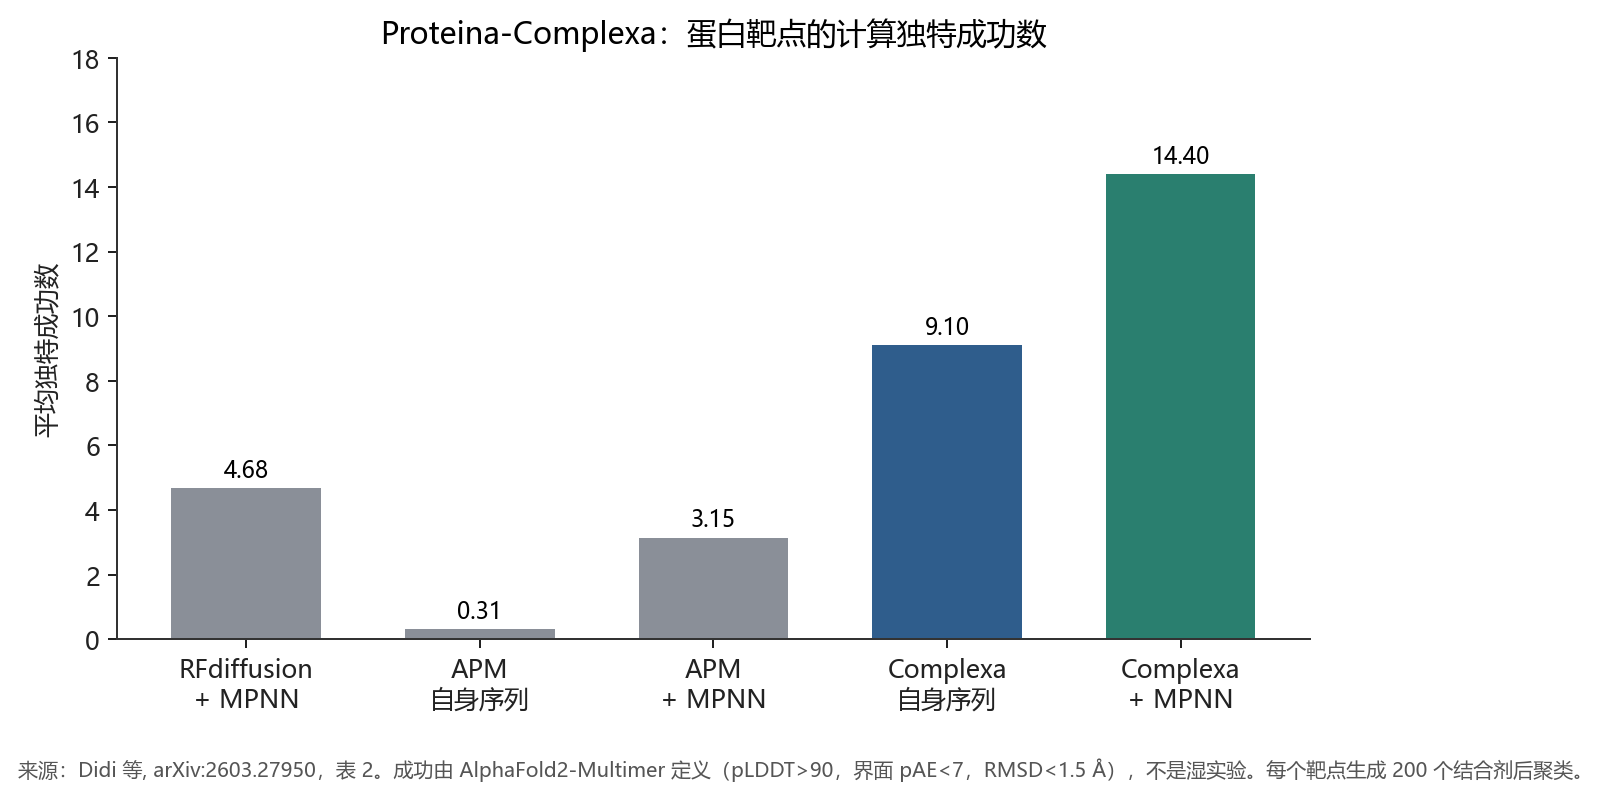
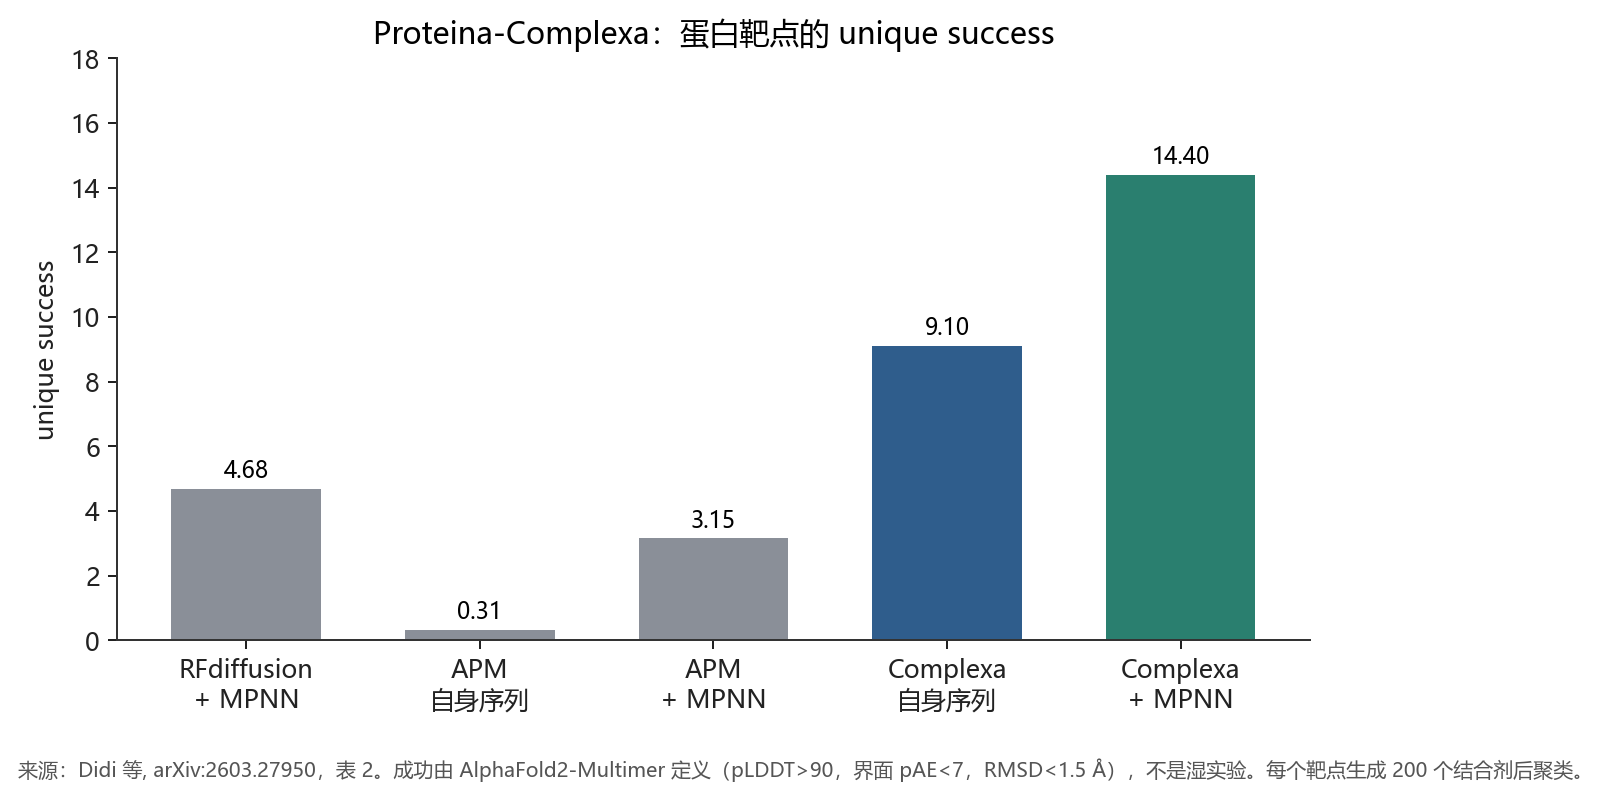
修改了语言

diff --git a/README.md b/README.md
@@ -1,50 +1,50 @@
 # 如何说明一个模型是有效的
-## 和实验测量的相关
+## 与实验测量的相关
 
-输入是序列，真值是已经测到的信号，对照是上一代模型。AlphaGenome 在没见过的基因组区间上，24 项轨道预测里 22 项超过当时最强外部模型，26 项变异效应评估里 25 项达到或超过最强外部模型。下图只保留能与 Borzoi 直接比较的三项。
+输入是序列，真值是已经测到的信号，对照是上一代模型。AlphaGenome 在留出的基因组区间上，24 项轨道预测里 22 项超过当时最强外部模型，26 项变异效应评估里 25 项达到或超过最强外部模型。下图只保留能与 Borzoi 直接比较的三项。
 
-![AlphaGenome 与 Borzoi 的三项变异效应指标](figures/alphagenome.png)
+![AlphaGenome 与 Borzoi：三项变异效应指标](figures/alphagenome.png)
 
-高置信 eQTL 的相关系数是 0.73，Borzoi 是 0.61；可变多聚腺苷酸化是 0.894 对 0.790。因果 eQTL 的 auROC 是 0.75 对 0.71，其中 0.75 已经是多模态分数再经随机森林的结果，模型自己只有 0.68。全体 17,675 个精细定位 eQTL 的有符号 Spearman 相关是 0.50，只看效应绝对值则降到 0.10。有效性集中在强信号子集。
+高置信 eQTL 的相关系数是 0.73，Borzoi 是 0.61；APA 是 0.894 对 0.790。因果 eQTL 的 auROC 是 0.75 对 0.71，其中 0.75 已经是多模态分数再经随机森林的结果，模型自己只有 0.68。全体 17,675 个精细定位 eQTL 的有符号 Spearman 相关是 0.50，只看绝对值则降到 0.10。有效性集中在强信号子集。
 
 Avsec, Ž. et al. *Nature* (2026). https://doi.org/10.1038/s41586-025-10014-0
 
 ## 通过率
 
-事先定一条及格线，再数有多少样本越过它。ESMFold2 的及格线是 DockQ ≥ 0.23。抗体–抗原来自 FoldBench；蛋白–蛋白的单序列 70% 来自 Runs N' Poses，带多序列比对的 76% 与 AlphaFold 3 的 73% 为论文直接对照。
+事先定一条阈值，再数有多少样本越过它。ESMFold2 的阈值是 DockQ ≥ 0.23。抗体–抗原来自 FoldBench；蛋白–蛋白的单序列 70% 来自 Runs N' Poses，带 MSA 的 76% 与 AlphaFold 3 的 73% 为论文直接对照。
 
 ![ESMFold2 与 AlphaFold 3 的复合物通过率](figures/esmfold2.png)
 
-仅用序列时，抗体–抗原通过率 50%，高于带多序列比对的 AlphaFold 3（47%）。加上多序列比对后，抗体–抗原为 53%，蛋白–蛋白为 76%，两类都高于 AlphaFold 3。误差约 ±1 到 ±2 个百分点。单序列蛋白–配体通过率为 66%，论文未给同设定的 AlphaFold 3 对照，故未画入。这证明的是结构坐标，结合自由能和细胞功能要另测。
+仅用序列时，抗体–抗原的通过率为 50%，高于带 MSA 的 AlphaFold 3（47%）。加上 MSA 后，抗体–抗原为 53%，蛋白–蛋白为 76%，两类都高于 AlphaFold 3。误差约 ±1 到 ±2 个百分点。单序列蛋白–配体的通过率为 66%，论文未给相同设定下的 AlphaFold 3 对照，故未画入。这证明的是结构坐标，结合自由能和细胞功能要另测。
 
 Candido, S. et al. *bioRxiv* (2026). https://doi.org/10.64898/2026.06.03.729735
 
 ## 湿实验读数
 
-做出分子，再测结合或活性。BoltzGen 共 8 组实验、26 个靶点，读出为表面等离子共振或生物层干涉的亲和力，部分还有细胞或抑菌功能。下图按靶点计成功率。
+做出分子，再测结合或活性。BoltzGen 共 8 组实验、26 个靶点，读出为 SPR 或 BLI 测到的亲和力，部分还有细胞实验或抑菌实验。下图按靶点计成功率。
 
 ![BoltzGen 按靶点计的湿实验成功率](figures/boltzgen.png)
 
-9 个新靶点在整个蛋白质数据银行中没有序列一致度高于 30% 的结合态蛋白，每个靶点最多测 15 个设计：纳米抗体和普通蛋白结合剂都是 9 个里 6 个达到纳摩尔。3 条生物活性肽各测 6 个设计，2 条达到纳摩尔。灰色柱是训练集里已经有已知复合物的靶点，5 个靶点里 4 个得到结合剂；作者写明，这里的成功可能只是重组见过的界面，证据弱于新靶点。每个靶点的实验样本量小，9 个新靶点里仍有 3 个没有纳摩尔结合剂。
+9 个新靶点在整个 PDB 中没有序列一致度高于 30% 的结合态蛋白，每个靶点最多测 15 个设计：纳米抗体和蛋白结合剂都是 9 个里 6 个达到 nM。3 条生物活性肽各测 6 个设计，2 条达到 nM。灰色柱是训练集里已经有已知复合物的靶点，5 个靶点里 4 个得到结合剂。作者写明，这里的成功可能只是重组见过的界面，证据弱于新靶点。每个靶点的样本量小，9 个新靶点里仍有 3 个没有 nM 结合剂。
 
 Stark, H. et al. *bioRxiv* (2025). https://doi.org/10.1101/2025.11.20.689494
 
 RFdiffusion3 把计算分数和湿实验放在同一张图里。右图才是实验：DNA 结合测试 5 个设计，1 个结合，EC50 = 5.89 ± 2.15 μM；半胱氨酸水解酶测试 190 个，35 个多次周转，最高 *k*<sub>cat</sub>/*K*<sub>m</sub> = 3557。催化所用的 Cys-His-Asp 几何来自天然酶 Ulp1，由人指定。
 
-![RFdiffusion3 的计算成功簇与湿实验成功数](figures/rfdiffusion3.png)
+![RFdiffusion3 的 unique success 与湿实验成功数](figures/rfdiffusion3.png)
 
 Butcher, J. et al. *bioRxiv* (2025). https://doi.org/10.1101/2025.09.18.676967
 
 ## 另一个折叠模型的置信度
 
-上图左栏的及格线来自 AlphaFold 3：链间最小 pAE ≤ 1.5，结合蛋白 pTM ≥ 0.8，RMSD < 2.5 Å。五个靶点各 400 个骨架，按 TM-score 0.6 聚类后，平均独特成功簇 8.2，RFdiffusion 为 1.4。不聚类时，五个靶点里四个超过 RFdiffusion。原子基序酶基准 41 例中 37 例超过 RFdiffusion2。这些数字说明生成结构更多样，且更符合 AlphaFold 3 的置信度。计算通过率明显高于右图的湿实验成功率。
+上图左栏的阈值来自 AlphaFold 3：链间最小 pAE ≤ 1.5，结合剂 pTM ≥ 0.8，RMSD < 2.5 Å。五个靶点各 400 个骨架，按 TM-score 0.6 聚类后，平均 unique success 为 8.2，RFdiffusion 为 1.4。不做聚类时，五个靶点里四个超过 RFdiffusion。AME 41 例中 37 例超过 RFdiffusion2。这些数字说明生成的结构更多样，也更符合 AlphaFold 3 的置信度。计算通过率明显高于右图的湿实验成功率。
 
-Proteina-Complexa 的成功标准来自 AlphaFold 2-Multimer：pLDDT > 90，界面 pAE < 7，结合剂 RMSD < 1.5 Å。每个方法、每个靶点生成 200 个长度 40–250 的结合剂，成功者再聚类。
+Proteina-Complexa 的成功标准来自 AlphaFold 2-Multimer：pLDDT > 90，界面 pAE < 7，结合剂 RMSD < 1.5 Å。每个方法、每个靶点生成 200 个长度 40–250 的结合剂，成功者再做聚类。
 
-![Proteina-Complexa 的平均独特成功数](figures/proteina_complexa.png)
+![Proteina-Complexa 的平均 unique success](figures/proteina_complexa.png)
 
-Complexa 自身序列的独特成功数 9.10，高于需要 ProteinMPNN 重设计的 RFdiffusion（4.68）和 APM（3.15）；再经 ProteinMPNN 为 14.4。小分子四个靶点（SAM、OQO、FAD、IAI）的独特成功数，RFdiffusion-AllAtom 为 2、3、5、8，Complexa 为 10、6、17、19。酶活性位点基准 41 项里 38 项超过 RFdiffusion2。训练用的 Teddymer 来自 AlphaFold 预测结构，评分又用 AlphaFold 2-Multimer，上升的是模型家族内部的一致性。论文没有给出亲和力或细胞实验。
+Complexa 自身序列的 unique success 为 9.10，高于需要 ProteinMPNN 重设计的 RFdiffusion（4.68）和 APM（3.15）；再经 ProteinMPNN 为 14.4。四个小分子靶点（SAM、OQO、FAD、IAI）的 unique success，RFdiffusion-AllAtom 为 2、3、5、8，Complexa 为 10、6、17、19。酶活性位点基准 41 项里 38 项超过 RFdiffusion2。训练用的 Teddymer 来自 AlphaFold 预测结构，评分又用 AlphaFold 2-Multimer，上升的是同一模型家族内部的一致性。论文没有给出亲和力或细胞实验。
 
 Didi, K. et al. *arXiv*:2603.27950 (2026). https://arxiv.org/abs/2603.27950
 
-相关和通过率说明模型会预测，湿实验说明设计能测到，折叠模型打分说明两套模型彼此一致。
+相关和通过率说明模型会预测，湿实验说明设计能测到，折叠模型的分数说明两套模型彼此一致。
